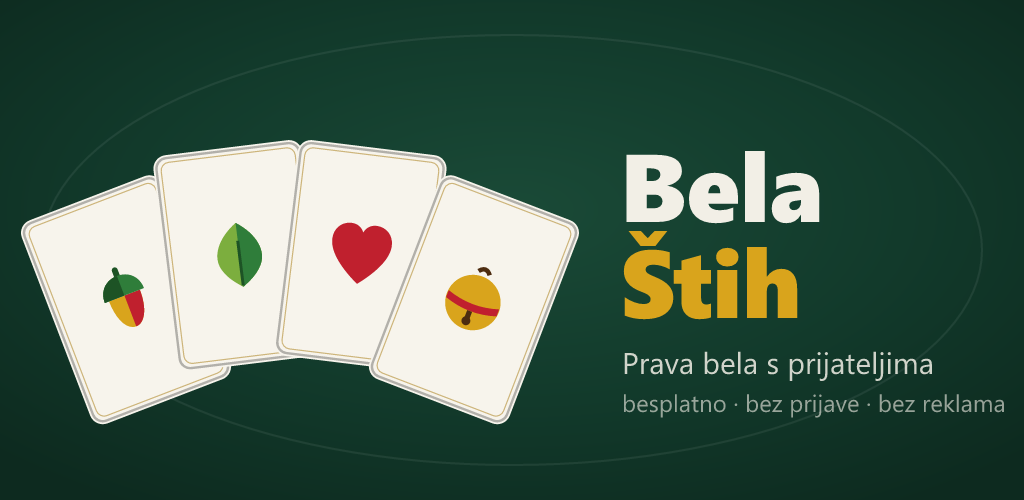
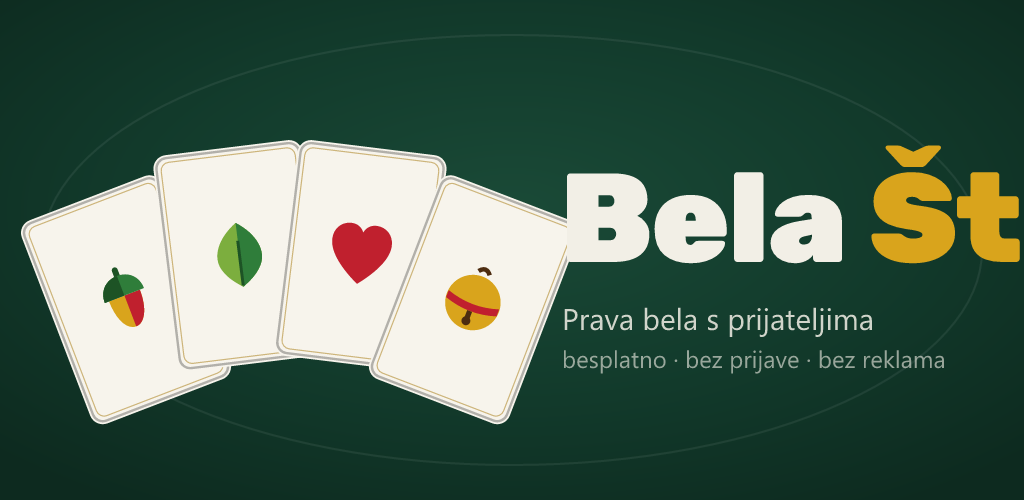
The wordmark is outlined from Rubik Black, on the home and in the store art
brand/wordmark.json holds the two words as paths in font units; the home
draws them as SVG (cream and gold) and the feature graphic sets the same
shape, so the mark no longer depends on whichever font a phone or a renderer
happens to have. The taglines stay set in type.

Changed region(s): [[0.5312, 0.27, 1.0, 0.66], [0.5938, 0.78, 1.0, 0.84], [0.5625, 0.69, 0.9375, 0.75]]

diff --git a/apps/mobile/src/home/Wordmark.tsx b/apps/mobile/src/home/Wordmark.tsx
@@ -1,24 +1,28 @@
-import { StyleSheet, Text, View } from 'react-native';
+import { Pressable, StyleSheet } from 'react-native';
+import Svg, { Path } from 'react-native-svg';
+import MARK from '../../brand/wordmark.json';
 import { garb } from '../deck/palette';
-import { font, ink, type } from '../theme';
+import { ink } from '../theme';
 
 /**
- * "Bela Štih": cream and gold. Set in type for now; the brand pass replaces
- * this with the outlined mark so it is the same shape as the icon and the
- * store art. `onLongPress` keeps the deck gallery's back door.
+ * "Bela Štih", outlined from Rubik Black (brand/wordmark.json, built by
+ * scripts/make-fonts.py's sibling recipe): cream and gold, the same shape on
+ * the launcher, in the store and here, whatever font the phone has loaded.
+ * `onLongPress` keeps the deck gallery's back door.
  */
-export function Wordmark({ size = 34, onLongPress }: { size?: number; onLongPress?: () => void }) {
+export function Wordmark({ height = 40, onLongPress }: { height?: number; onLongPress?: () => void }) {
+  const h = MARK.ascent - MARK.descent;
+  const width = (MARK.width / h) * height;
   return (
-    <View style={styles.row} accessibilityRole="header">
-      <Text style={[styles.word, { fontSize: size, lineHeight: size + 6 }]} onLongPress={onLongPress}>
-        Bela <Text style={styles.gold}>Štih</Text>
-      </Text>
-    </View>
+    <Pressable onLongPress={onLongPress} delayLongPress={600} accessibilityRole="header" accessibilityLabel="Bela Štih">
+      <Svg width={width} height={height} viewBox={`0 ${-MARK.ascent} ${MARK.width} ${h}`} style={styles.mark}>
+        <Path d={MARK.bela} fill={ink.hi} />
+        <Path d={MARK.stih} fill={garb.gold} />
+      </Svg>
+    </Pressable>
   );
 }
 
 const styles = StyleSheet.create({
-  row: { flexDirection: 'row', alignItems: 'baseline' },
-  word: { color: ink.hi, letterSpacing: 0.5, ...type.display, fontFamily: font.black },
-  gold: { color: garb.gold },
+  mark: { overflow: 'visible' },
 });

diff --git a/apps/mobile/test/brand.test.ts b/apps/mobile/test/brand.test.ts
@@ -33,6 +33,22 @@ describe('the brand paths', () => {
     }
   });
 
+  it('include the outlined wordmark, drawn by the home and the store art', () => {
+    const mark = JSON.parse(readFileSync(join(__dirname, '..', 'brand', 'wordmark.json'), 'utf8')) as {
+      unitsPerEm: number; ascent: number; descent: number; width: number; bela: string; stih: string;
+    };
+    expect(mark.unitsPerEm).toBe(1000);
+    expect(mark.ascent).toBeGreaterThan(0);
+    expect(mark.descent).toBeLessThan(0);
+    expect(mark.width).toBeGreaterThan(3000);
+    expect(mark.bela).toMatch(/^M/);
+    expect(mark.stih).toMatch(/^M/);
+    const src = (p: string) => readFileSync(join(__dirname, '..', p), 'utf8');
+    expect(src('src/home/Wordmark.tsx')).toMatch(/from '\.\.\/\.\.\/brand\/wordmark\.json'/);
+    expect(src('src/home/Wordmark.tsx')).not.toMatch(/<Text/);
+    expect(readFileSync(join(__dirname, '..', '..', '..', 'scripts', 'brand.mjs'), 'utf8')).toMatch(/wordmark\.json/);
+  });
+
   it('are what the deck and both art scripts draw from', () => {
     const src = (p: string) => readFileSync(join(__dirname, '..', p), 'utf8');
     expect(src('src/deck/pips.tsx')).toMatch(/from '\.\.\/\.\.\/brand\/paths\.json'/);

diff --git a/apps/mobile/src/HomeScreen.tsx b/apps/mobile/src/HomeScreen.tsx
@@ -157,7 +157,7 @@ export function HomeScreen({
 
             {/* the brand — a long press opens the deck gallery: review harness and easter egg */}
             <View style={styles.brand}>
-              <Wordmark onLongPress={() => onLaunch({ mode: 'gallery' })} />
+              <Wordmark height={40} onLongPress={() => onLaunch({ mode: 'gallery' })} />
               <Text style={styles.sub}>{lang.s.gameToTarget(1001)}</Text>
             </View>
 
